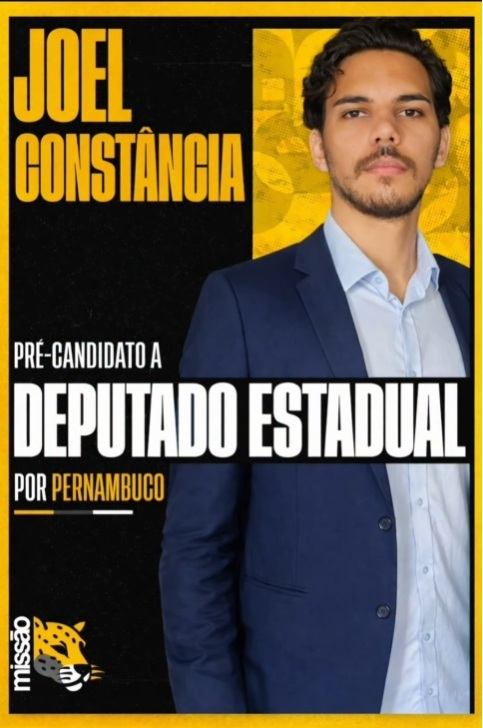
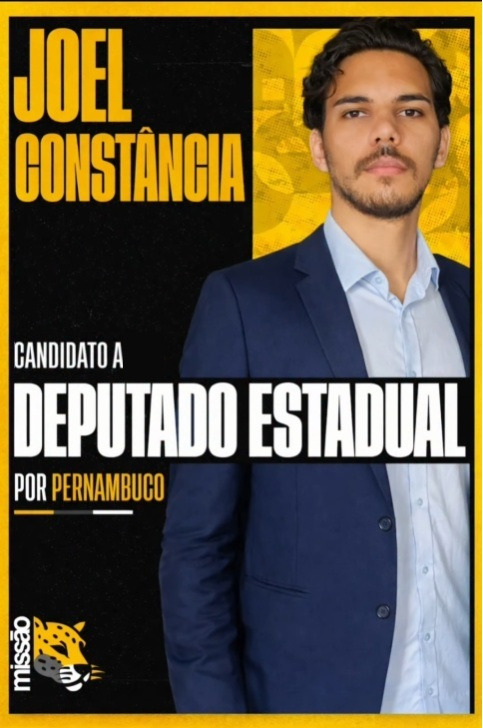
WhatsApp em primeiro, plano de governo em PDF e limpeza do "pré"
- "Entre no WhatsApp" passa a ser a primeira opção da página inicial
- Novo botão "Veja mais propostas" no fim de /propostas, apontando para o
  PDF do plano de governo da missão 2026 (o Livro Amarelo segue logo abaixo)
- Remove "pré-campanha" que sobrou em /propostas e no componente Propostas
- og-image: remove o "PRÉ-" de "PRÉ-CANDIDATO A", reaproveitando os glifos
  originais da própria arte para manter a tipografia

Changed region(s): [[0.0311, 0.4533, 0.3416, 0.5137]]

diff --git a/src/pages/PropostasTodas.jsx b/src/pages/PropostasTodas.jsx
@@ -1,5 +1,5 @@
 import { useEffect } from 'react'
-import { propostas, linkVaquinha, linkWhatsapp } from '../data.js'
+import { propostas, linkVaquinha, linkWhatsapp, linkPlanoGoverno } from '../data.js'
 import Footer from '../components/Footer.jsx'
 import IconeProposta from '../components/IconeProposta.jsx'
 
@@ -94,6 +94,50 @@ export default function PropostasTodas() {
             </div>
           )}
 
+          {/* Plano de governo da missão (PDF) */}
+          <div className="mt-16 max-w-3xl mx-auto">
+            <a
+              href={linkPlanoGoverno}
+              target="_blank"
+              rel="noopener noreferrer"
+              className="group block bg-gradient-to-br from-amarelo/10 to-amarelo/5 hover:from-amarelo/20 hover:to-amarelo/10 border border-amarelo/30 hover:border-amarelo/60 rounded-2xl p-6 sm:p-8 transition-all hover:shadow-2xl hover:shadow-amarelo/10"
+            >
+              <div className="flex flex-col sm:flex-row items-start sm:items-center gap-4">
+                <div className="flex-shrink-0 inline-flex items-center justify-center w-14 h-14 rounded-2xl bg-amarelo/20 border border-amarelo/40 text-amarelo">
+                  <svg className="w-7 h-7" fill="none" stroke="currentColor" strokeWidth="2" viewBox="0 0 24 24">
+                    <path strokeLinecap="round" strokeLinejoin="round" d="M9 12h6m-6 4h6m2 5H7a2 2 0 01-2-2V5a2 2 0 012-2h5.586a1 1 0 01.707.293l5.414 5.414a1 1 0 01.293.707V19a2 2 0 01-2 2z" />
+                  </svg>
+                </div>
+                <div className="flex-1">
+                  <div className="text-amarelo text-[10px] font-bold tracking-widest uppercase mb-1">
+                    Plano de Governo · PDF
+                  </div>
+                  <h2 className="font-display text-2xl sm:text-3xl text-white mb-2 leading-tight group-hover:text-amarelo transition-colors">
+                    Veja mais propostas
+                  </h2>
+                  <p className="text-white/70 text-sm sm:text-base leading-relaxed">
+                    O plano de governo completo da missão para 2026, aberto e gratuito.
+                  </p>
+                  <div className="sm:hidden mt-4 inline-flex items-center gap-2 px-4 py-2 rounded-full bg-amarelo/20 border border-amarelo/40 text-amarelo text-xs font-bold tracking-wider uppercase group-hover:bg-amarelo/30 transition-colors">
+                    Abrir PDF
+                    <svg className="w-4 h-4 group-hover:translate-x-1 transition-transform" fill="none" stroke="currentColor" strokeWidth="3" viewBox="0 0 24 24">
+                      <path strokeLinecap="round" strokeLinejoin="round" d="M14 5l7 7m0 0l-7 7m7-7H3" />
+                    </svg>
+                  </div>
+                </div>
+                <svg
+                  className="hidden sm:block flex-shrink-0 w-5 h-5 text-amarelo group-hover:translate-x-1 transition-transform"
+                  fill="none"
+                  stroke="currentColor"
+                  strokeWidth="3"
+                  viewBox="0 0 24 24"
+                >
+                  <path strokeLinecap="round" strokeLinejoin="round" d="M14 5l7 7m0 0l-7 7m7-7H3" />
+                </svg>
+              </div>
+            </a>
+          </div>
+
           {/* Livro Amarelo */}
           <div className="mt-16 max-w-3xl mx-auto">
             <a
@@ -145,7 +189,7 @@ export default function PropostasTodas() {
                 Gostou das propostas?
               </h2>
               <p className="text-white/70 text-lg mb-8 max-w-2xl mx-auto">
-                Apoie nossa pré-campanha pra que essas pautas cheguem ao parlamento estadual.
+                Apoie nossa campanha pra que essas pautas cheguem ao parlamento estadual.
               </p>
               <div className="flex flex-col sm:flex-row gap-3 justify-center">
                 <a

diff --git a/src/components/LinkTree.jsx b/src/components/LinkTree.jsx
@@ -26,6 +26,16 @@ const iconeWhatsapp = (
 
 const links = [
   {
+    label: 'Entre no WhatsApp',
+    sub: 'Fique por dentro de tudo',
+    href: linkWhatsapp,
+    icon: iconeWhatsapp,
+    emoji: '💬',
+    cor: 'from-green-500 to-emerald-600',
+    lado: 'left',
+    amarelo: false,
+  },
+  {
     label: 'Propostas',
     sub: 'Algumas propostas',
     href: '/propostas',
@@ -43,16 +53,6 @@ const links = [
     emoji: '🎙',
     cor: 'from-purple-500 to-pink-600',
     lado: 'right',
-    amarelo: false,
-  },
-  {
-    label: 'Entre no WhatsApp',
-    sub: 'Fique por dentro de tudo',
-    href: linkWhatsapp,
-    icon: iconeWhatsapp,
-    emoji: '💬',
-    cor: 'from-green-500 to-emerald-600',
-    lado: 'left',
     amarelo: false,
   },
   {

diff --git a/src/data.js b/src/data.js
@@ -77,6 +77,10 @@ export const campanha = {
 // Aparece em: hero (botão "Apoie a campanha") e página /propostas
 export const linkVaquinha = 'https://apoiar.me/joel'
 
+// PDF do plano de governo do Partido Missão — botão no fim da página /propostas
+export const linkPlanoGoverno =
+  'https://www.renanpresidente.com.br/plano-de-governo-missao-2026.pdf'
+
 // Link de convite do grupo de WhatsApp
 // Aparece em: hero (botão "Entre no nosso WhatsApp") e botão flutuante
 export const linkWhatsapp = 'https://chat.whatsapp.com/DyXSAkqktf57wrJkKJhPsJ?mode=wwt'

diff --git a/src/components/Propostas.jsx b/src/components/Propostas.jsx
@@ -22,7 +22,7 @@ export default function Propostas() {
         <SectionTitle
           eyebrow="Plano de governo"
           title={<>Nossas <span className="text-amarelo">propostas</span></>}
-          subtitle="O que vamos defender no parlamento estadual pelo povo de Pernambuco. Conheça os eixos da nossa pré-campanha."
+          subtitle="O que vamos defender no parlamento estadual pelo povo de Pernambuco. Conheça os eixos da nossa campanha."
         />
 
         <div className="mt-16 grid sm:grid-cols-2 lg:grid-cols-3 gap-6">
